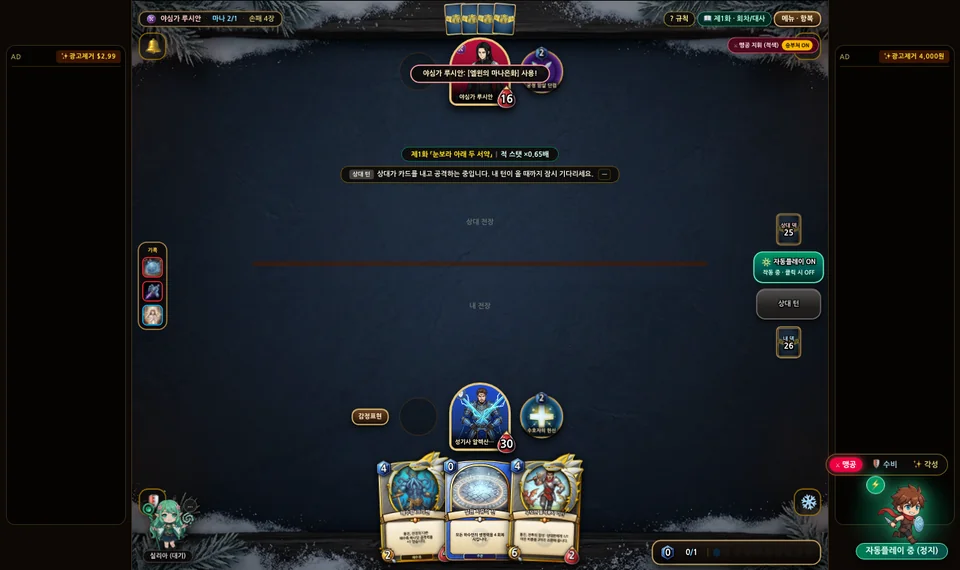
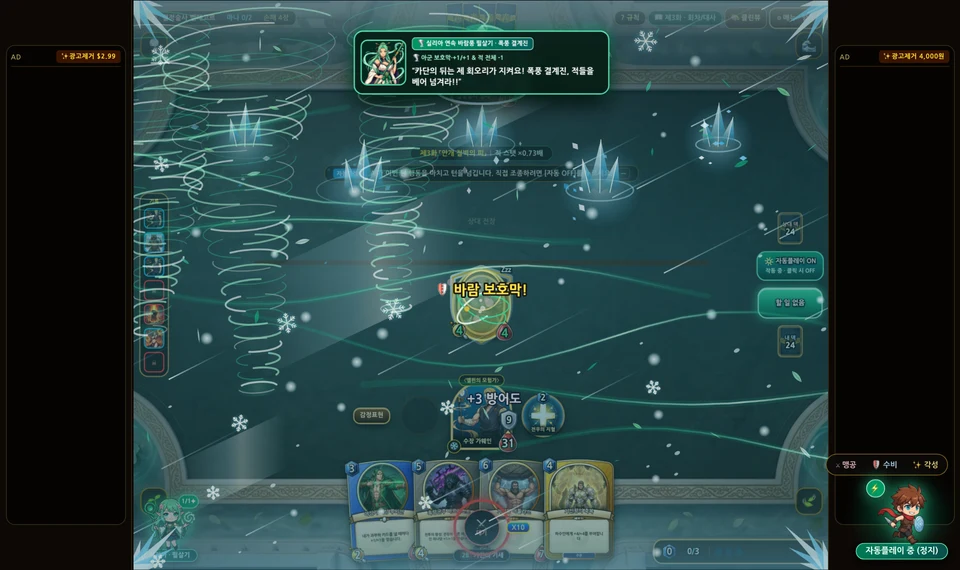
docs(guide): 게임 방법 STEP 4 자동플레이 [카단의 기세] 활용법 상세 안내 및 한·영 스크린샷 갱신

diff --git a/src/hearthstone/components/OnboardingGuideModal.tsx b/src/hearthstone/components/OnboardingGuideModal.tsx
@@ -91,18 +91,20 @@ export const HOW_TO_PLAY_SLIDES: GuideStepSlide[] = [
   },
   {
     step: 4,
-    shortLabelKo: '전술·리듬오토',
-    shortLabelEn: 'Tactic & Rhythm',
-    badgeKo: 'STEP 4 · 카단 전술 & BGM 리듬 오토(1.5x·2.0x)',
-    badgeEn: 'STEP 4 · KADAN COMMAND ORB & BGM RHYTHM AUTO',
-    titleKo: '카단 리듬 지휘 오브(1.5x·2.0x) & 실리아 필살기',
-    titleEn: 'Kadan Rhythm Command Orb (1.5x·2.0x) & Silia Ultimates',
+    shortLabelKo: '카단의 기세',
+    shortLabelEn: 'Kadan Spirit',
+    badgeKo: 'STEP 4 · 자동플레이 & 카단의 기세 (X10 연속 필살기)',
+    badgeEn: "STEP 4 · AUTO-PLAY & KADAN'S SPIRIT (X10 CHAIN ULTIMATE)",
+    titleKo: '자동플레이 중 [카단의 기세] 초록 링 탭 → X10 눈보라·바람풍 연속 필살기!',
+    titleEn: "Auto-Play [Kadan's Spirit]: Tap on GREEN → X10 Blizzard & Windstorm Chain!",
     descKo:
-      '자동플레이 시 우상단 [카단 리듬 지휘 오브]에서 공격·방어·각성 전술을 바꾸고, BGM 박자에 수축하는 황금 오카리나 링을 탭(또는 Space)하면 화음과 함께 1.5x·2.0x 공명(경쟁모드는 골드 피버)이 발동합니다!',
+      '자동플레이를 켜면 실리아와 카단 사이 하단 중앙에 BGM 맥박에 맞춰 수축하는 [카단의 기세] 링이 열립니다. 빨간색(대기)일 때는 기다렸다가 초록색(TAP!) 타이밍에 터치(또는 Space 키)하면 X1, X2… 기세 스택이 쌓이며, 10배수(X10·X20·X30…)마다 카단의 눈보라 광역 필살기와 실리아의 무작위 바람풍 필살기가 연속으로 작렬합니다!',
     descEn:
-      'During Auto-Play, switch Attack/Defense/3x stances on the Kadan Command Orb and tap the shrinking Golden Ocarina Beat Ring (or Space) for 1.5x·2.0x harmonic resonance (or Gold Fever in Ranked/Bogart)!',
-    tipKo: '편의 기능: 사운드 OFF 시에도 시각 메트로놈 파동으로 박자를 맞출 수 있으며, 10배수(X10·X20…)마다 카단 눈보라 & 실리아 바람풍 연속 필살기가 발동합니다.',
-    tipEn: 'Smart Assist: Works silently via Visual Metronome pulses when muted, firing Kadan Blizzard & Silia Windstorm chain ultimates every 10 stacks (X10·X20…).',
+      "When Auto-Play is ON, the [Kadan's Spirit] beat ring appears at bottom-center between Silia and Kadan. Hold on RED (WAIT) and tap on GREEN (TAP! or Spacebar) to build X1, X2… stacks—every 10 stacks (X10·X20·X30…) unleashes Kadan's Blizzard Ultimate followed immediately by Silia's random Windstorm Ultimate!",
+    tipKo:
+      '박자·전술 팁: 링 아래 [2B/4B] 버튼으로 2박(기본)·4박 주기를 전환할 수 있고, 우하단 [맹공·수비·각성]으로 카단의 자동 전술을 실시간 변경하며, 랭킹·도박장에서는 공정하게 피버 골드만 충전됩니다.',
+    tipEn:
+      'Beat & Stance Tip: Switch [2B/4B] cadence below the ring, change [Aggro · Ctrl · Awkn] AI stances at bottom-right, and earn fair bonus Fever Gold in Ranked/Bogart.',
     imageUrlKo: '/hs-assets/guide/guide_04_combat_ult.webp',
     imageUrlEn: '/hs-assets/guide/guide_en_04_combat_ult.webp',
   },
@@ -270,6 +272,48 @@ export const HowToPlayCarousel: React.FC<{
           <p className="mt-1.5 text-xs font-semibold leading-relaxed text-amber-100/90 sm:text-sm">
             {isKo ? slide.descKo : slide.descEn}
           </p>
+
+          {slide.step === 4 && (
+            <div
+              data-testid="howto-kadan-spirit-breakdown"
+              className="mt-2.5 grid grid-cols-1 gap-1.5 sm:grid-cols-3"
+            >
+              <div className="rounded-xl border border-emerald-400/45 bg-black/50 px-2.5 py-2">
+                <div className="text-[11px] font-black text-emerald-300">
+                  {tr('① 🟢 초록(TAP!) · 🔴 빨강(대기)', '① 🟢 GREEN (TAP!) · 🔴 RED (WAIT)')}
+                </div>
+                <div className="mt-0.5 text-[10.5px] leading-snug text-amber-100/85">
+                  {tr(
+                    '링이 초록색일 때 터치(또는 Space)! 빨간색에 누르면 엇박(MISS)으로 스택이 오르지 않습니다.',
+                    'Tap (or press Space) when the ring turns GREEN! Tapping on RED counts as a MISS.',
+                  )}
+                </div>
+              </div>
+              <div className="rounded-xl border border-sky-400/45 bg-black/50 px-2.5 py-2">
+                <div className="text-[11px] font-black text-sky-300">
+                  {tr('② 📈 X1 → X10 → X20 기세 누적', '② 📈 Stack X1 → X10 → X20 Spirit')}
+                </div>
+                <div className="mt-0.5 text-[10.5px] leading-snug text-amber-100/85">
+                  {tr(
+                    '2박마다 1스택씩 옆 배지(X1, X2…)에 누적되며, 스토리 매 턴 방어도·공격력 공명 보너스도 부여됩니다.',
+                    'Every 2-beat hit stacks X1, X2… on the side badge and grants turn Armor/Buff resonance in Story.',
+                  )}
+                </div>
+              </div>
+              <div className="rounded-xl border border-cyan-300/55 bg-sky-950/45 px-2.5 py-2">
+                <div className="text-[11px] font-black text-cyan-200">
+                  {tr('③ ❄🌪 10배수 합동 필살기 작렬', '③ ❄🌪 10x Dual Ultimate Combo')}
+                </div>
+                <div className="mt-0.5 text-[10.5px] leading-snug text-amber-100/85">
+                  {tr(
+                    'X10·X20·X30 달성 즉시 배수 비례 [카단 눈보라 필살기] + [실리아 무작위 바람풍 필살기]가 연속 발동합니다!',
+                    'Hitting X10·X20·X30 fires tier-scaled [Kadan Blizzard] + [Silia Random Windstorm] back-to-back!',
+                  )}
+                </div>
+              </div>
+            </div>
+          )}
+
           <div className="mt-2.5 rounded-xl border border-emerald-400/40 bg-emerald-950/60 px-3 py-2 text-[11px] font-bold text-emerald-100 sm:text-xs">
             💡 {isKo ? slide.tipKo : slide.tipEn}
           </div>
@@ -373,6 +417,13 @@ export const QuickRulesModal: React.FC<QuickRulesModalProps> = ({
         'In Story Mode, owning 3+ copies boosts a minion’s Attack & Health by 3x or more!',
       ),
     },
+    {
+      name: tr('🟢 카단의 기세 (X10 합동 필살기)', "🟢 Kadan's Spirit (X10 Combo Ult)"),
+      desc: tr(
+        '자동플레이 중 하단 중앙 링이 초록색(TAP!)일 때 누르면 X스택이 쌓이고, 10배수(X10·X20…)마다 카단 눈보라 + 실리아 바람풍 연속 필살기가 발동합니다!',
+        'During Auto-Play, tap the bottom-center ring on GREEN (TAP!) to stack X1, X2… Every 10 stacks (X10·X20…) fires Kadan Blizzard + Silia Windstorm!',
+      ),
+    },
   ];
 
   const handleClose = () => {
@@ -429,7 +480,7 @@ export const QuickRulesModal: React.FC<QuickRulesModalProps> = ({
             }}
             className="flex min-h-[44px] w-full items-center justify-between rounded-xl border border-[#c8a158]/50 bg-black/45 px-3.5 py-2 text-xs font-extrabold text-amber-200 transition hover:border-amber-300 sm:text-sm"
           >
-            <span>{tr('📖 자주 나오는 카드 능력(키워드) 6가지 보기', '📖 View 6 Core Card Keywords')}</span>
+            <span>{tr('📖 자주 나오는 카드 능력 & 핵심 시스템 7가지 보기', '📖 View 7 Core Card Keywords & Systems')}</span>
             <span>{showKeywords ? tr('접기 ▲', 'Hide ▲') : tr('펼치기 ▼', 'Show ▼')}</span>
           </button>
 

diff --git a/src/hearthstone/services/localLlmAssistant.ts b/src/hearthstone/services/localLlmAssistant.ts
@@ -127,6 +127,7 @@ function buildSystemPrompt(opts: {
       '규칙 요약: 총 382장 카드(9종족 × 25장 + 중립 157장), 40화 풀보이스 스토리모드, 1배수 공정 랭킹전, 9종족 AI대전.',
       '핵심 성장: 스토리모드 전용 [3장=3배 각성] 법칙 (동일 카드 3장 보유 시 공격력/생명력 3배, N환생 시 추가 비례 상승). 팩 천장: 10팩마다 24K 전설 100% 확정.',
       '동료 스킬: 좌측 하단 요정 실리아 3등신 필살기(바람 결계 보호막/스탯 버프, 녹풍 참격 광역 피해, 생명의 미풍 회복/방어도 — 환생할수록 강화).',
+      '자동플레이 [카단의 기세]: 자동플레이 ON 시 실리아와 카단 사이 하단 중앙에 BGM 맥박과 동기화된 [카단의 기세] 수축 링이 표시됨. 빨간색(대기)일 때는 기다리고 초록색(TAP!)일 때 터치(또는 Space 키)하면 2박마다 X1, X2… 누적 스택이 쌓임. 10배수(X10, X20, X30…) 달성 즉시 카단의 눈보라 광역 필살기가 발동하고 직후 실리아의 무작위 바람풍 필살기가 연속 발동함 (경쟁 모드는 피버 골드 충전).',
       '유저의 질문에 친절하고 간결하게 2~4문장 이내의 한국어로 답하세요.',
       `현재 상태: 화면=${screen}, 골드=${profile.gold}G, 가루=${profile.arcaneDust}, 보유팩=${profile.packs}, 여정=${profile.journeyEpisode}화(환생 ${profile.journeyReincarnation}회), 카단전술=${tacticalStance}. ${battleSummary}`,
     ].join('\n');
@@ -135,7 +136,7 @@ function buildSystemPrompt(opts: {
   return [
     'You are Paladin Kadan, the helpful on-device AI guide inside the web card battle game SNSHero.',
     'Game facts: 382 collectible cards (9 factions x 25 + 157 neutral), 40-episode full-voice Story Mode, fair 1x Ranked Mode, 9-Faction AI Practice.',
-    'Core systems: Story Mode [3 Copies = 3x Power] awakening rule (NG+ Reincarnation scales stats further), Guaranteed Legendary within 10 card packs, bottom-left Chibi Silia Ultimate Skills (Wind Barrier, Gale Slash, Vital Breeze scaling with Reincarnation).',
+    'Core systems: Story Mode [3 Copies = 3x Power] awakening rule (NG+ Reincarnation scales stats further), Guaranteed Legendary within 10 card packs, bottom-left Chibi Silia Ultimate Skills (Wind Barrier, Gale Slash, Vital Breeze scaling with Reincarnation), and Auto-Play [Kadan\'s Spirit] beat ring at bottom-center (wait on RED, tap on GREEN or Spacebar to stack X1, X2…; every 10 stacks X10/X20 triggers Kadan\'s Blizzard Ultimate followed immediately by Silia\'s random Windstorm Ultimate).',
     'Answer concisely in 2-4 friendly English sentences.',
     `Live context: Screen=${screen}, Gold=${profile.gold}G, Dust=${profile.arcaneDust}, Packs=${profile.packs}, Story=EP.${profile.journeyEpisode}(NG+${profile.journeyReincarnation}), Stance=${tacticalStance}. ${battleSummary}`,
   ].join('\n');
@@ -152,6 +153,12 @@ function answerWithBuiltInSnsHeroKnowledge(
 ): string {
   const { isKo, profile, battleSnapshot } = opts;
   const q = question.toLowerCase();
+
+  if (/기세|정박|링|스택|x10|x20|초록|빨강|눈보라|리듬|박자|spirit|rhythm|ring|stack|blizzard|green/i.test(q)) {
+    return isKo
+      ? `자동플레이를 켜면 실리아와 저 사이 하단 중앙에 [카단의 기세] 수축 링이 열립니다! 🔴 빨간색(대기)일 때는 참았다가 🟢 초록색(TAP!)일 때 터치(또는 Space 키)하면 X1, X2… 스택이 쌓이고, 10배수(X10·X20·X30…)마다 제 눈보라 광역 필살기와 실리아의 무작위 바람풍 필살기가 연속으로 작렬합니다! ([2B/4B] 버튼으로 박자 주기도 조절 가능해요.)`
+      : `During Auto-Play, the [Kadan's Spirit] beat ring appears at bottom-center between Silia and me! Hold on RED (WAIT) and tap on GREEN (TAP! or Spacebar) to build X1, X2… stacks—every 10 stacks (X10·X20·X30…) fires my Blizzard Ultimate followed right away by Silia's random Windstorm Ultimate!`;
+  }
 
   if (/실리아|필살기|바람|녹풍|결계|미풍|silia|ult|barrier|gale|breeze/i.test(q)) {
     return isKo

diff --git a/src/hearthstone/components/KadanChatbotWidget.tsx b/src/hearthstone/components/KadanChatbotWidget.tsx
@@ -423,6 +423,18 @@ export const KadanChatbotWidget: React.FC<KadanChatbotWidgetProps> = ({
       return [
         autoPlayOption,
         {
+          id: 'battle_kadan_spirit_guide',
+          icon: '🟢',
+          label: tr('자동플레이 [카단의 기세] 활용법 알려줘', "How do I use [Kadan's Spirit] in Auto-Play?"),
+          highlight: 'tip',
+          onSelect: () => {
+            speak(
+              '자동플레이를 켜면 실리아와 저 사이 하단 중앙에 [카단의 기세] 링이 나타나요! 빨간색(대기)일 때는 기다렸다가 초록색(TAP!)일 때 누르면(또는 Space 키) X1, X2… 기세 스택이 쌓이고, 10배수(X10·X20…)마다 제 눈보라 필살기와 실리아의 바람풍 필살기가 연속으로 작렬합니다!',
+              "Turn on Auto-Play to open the [Kadan's Spirit] ring between Silia and me! Wait on RED, tap on GREEN (or Spacebar) to stack X1, X2… Every 10 stacks (X10·X20…) unleashes my Blizzard Ultimate + Silia's Windstorm Ultimate back-to-back!",
+            );
+          },
+        },
+        {
           id: 'battle_recommend_play',
           icon: '🃏',
           label: tr('지금 낼 수 있는 추천 카드 알려줘', 'Which card should I play right now?'),
@@ -748,12 +760,12 @@ export const KadanChatbotWidget: React.FC<KadanChatbotWidgetProps> = ({
       {
         id: 'hub_card_basics',
         icon: '💡',
-        label: tr('초보자 필수 카드 도움말 듣기', 'Beginner Card Battle Tips'),
+        label: tr('초보자 필수 카드 & [카단의 기세] 도움말', "Beginner Battle & [Kadan's Spirit] Tips"),
         highlight: 'tip',
         onSelect: () =>
           speak(
-            '눈히어로의 382장 카드는 [하수인·주문·무기]로 나뉘어요! 매 턴 늘어나는 파란 마나 수정 범위 안에서 카드를 내어 적 영웅의 생명력을 0으로 만들면 승리합니다!',
-            'All 382 cards are Minions, Spells, or Weapons! Spend Mana crystals each turn to reduce the enemy Hero to 0 Health!',
+            '매 턴 마나로 [하수인·주문·무기]를 내어 적 영웅 체력을 0으로 만들면 승리해요! 자동플레이 중에는 하단 중앙 [카단의 기세] 링이 초록색(TAP!)일 때 눌러 X10·X20 스택을 채우면 제 눈보라 필살기와 실리아의 바람풍 필살기가 연속 발동합니다!',
+            "Spend Mana on Minions, Spells & Weapons to drop the enemy Hero to 0 HP! During Auto-Play, tap the bottom-center [Kadan's Spirit] ring on GREEN (TAP!)—every 10 stacks (X10·X20) triggers my Blizzard + Silia's Windstorm Ultimates!",
           ),
       },
       {

diff --git a/src/promo/PromoApp.tsx b/src/promo/PromoApp.tsx
@@ -775,10 +775,10 @@ export const PromoApp: React.FC = () => {
                 },
                 {
                   icon: <Swords className="h-6 w-6 text-emerald-300" />,
-                  title: tr('카단의 기세 & 필살기', "Kadan's Spirit & Ultimate"),
+                  title: tr('카단의 기세 & 합동 필살기', "Kadan's Spirit & Dual Ultimate"),
                   desc: tr(
-                    '배경음악 맥박(초록 링)을 탭해 10배수 X스택을 쌓으면 카단의 눈히어로 필살기가 작렬합니다.',
-                    'Tap the green beat ring to stack 10x Spirit and unleash Kadan’s SNSHero Ultimate.',
+                    '자동플레이 중 하단 중앙 초록 링(TAP!)을 눌러 X10·X20 스택을 쌓으면 카단 눈보라 + 실리아 바람풍 연속 필살기가 작렬합니다.',
+                    'During Auto-Play, tap the bottom-center green beat ring (TAP!) to stack X10·X20 and unleash Kadan Blizzard + Silia Windstorm!',
                   ),
                 },
                 {

diff --git a/WORK_LOGS.md b/WORK_LOGS.md
@@ -2,6 +2,18 @@
 
 이 문서는 매시 정각 주기 스케줄러 및 수동 실행 시 스프레드시트 작업 동기화, 코드 수정 및 검증, 구글 폼 보고 내역을 기록하는 영구 로그입니다.
 
+## [2026-11-18 11:22 KST] [게임 방법(`How to Play`) · 전투 규칙 · 카단 도우미 내 자동플레이 『카단의 기세』 활용법 및 한·영 최신 스크린샷 반영]
+- **요청 및 개선 내역**:
+  1. **게임 방법 6단계 가이드 STEP 4 『카단의 기세』 전용 가이드 및 3단계 시각 카드 추가 (`src/hearthstone/components/OnboardingGuideModal.tsx`, `src/promo/PromoApp.tsx`)**:
+     - 상단 4번 탭 명칭을 **`4. 카단의 기세` (`4. Kadan Spirit`)** 으로 명확히 표시하고, 자동플레이 시 하단 중앙 수축 링 활용법(**① 🔴 빨강(대기) · 🟢 초록(TAP!) 탭 타이밍** → **② `X1` → `X10` → `X20` 누적 스택** → **③ 10배수 달성 즉시 카단 눈보라 + 실리아 무작위 바람풍 연속 합동 필살기**)을 3단계 요약 카드(`howto-kadan-spirit-breakdown`)와 본문·팁에 한·영 모두 상세히 수록.
+     - 하단 핵심 키워드 아코디언(`QuickRulesModal`)에도 **`🟢 카단의 기세 (X10 합동 필살기)`** 항목을 추가해 로비 `[게임 방법]`, 전장 `[? 규칙]`, 프로모션 `#how-to-play` 전 화면에서 즉시 확인 가능하도록 구성.
+  2. **한국어·영문 전용 최신 인게임 가이드 스크린샷 재캡처 반영 (`public/hs-assets/guide/guide_04_combat_ult.webp`, `public/hs-assets/guide/guide_en_04_combat_ult.webp`)**:
+     - 기존 구버전 스크린샷을 대체하여 하단 중앙 `카단의 기세` 링·`X10` 스택 배지·눈보라 및 바람풍 연속 필살기가 실제 작동 중인 한국어/영문 화면(`960×570` WebP)으로 각각 최신화.
+  3. **카단 전장/로비 챗봇 및 온디바이스 AI 문답 지식 추가 (`src/hearthstone/components/KadanChatbotWidget.tsx`, `src/hearthstone/services/localLlmAssistant.ts`)**:
+     - 전장 카단 메뉴에 **`🟢 자동플레이 [카단의 기세] 활용법 알려줘`** 원탭 도움말 버튼을 추가하고, 로컬 AI 질의응답에 `카단의 기세`·`초록 링`·`X10 스택` 규칙을 등록.
+- **빌드 & E2E 검증**: `npx tsc --noEmit && npm run build` 0 에러 통과, Playwright 한·영(`ko` `360×844`, `en` `390×844` / `1280×800`) `[게임 방법]` 모달·프로모션 `#how-to-play`·언어별 스크린샷 분기 검증 통과.
+- **버전 관리 & 보고**: 로컬 `git commit` 완료(`git push` 미실행 · 수동 푸시 대기) 및 구글 폼 완료 보고 제출.
+
 ## [2026-11-18 11:14 KST] [필살기 내 축포형 리본·폭죽 별 파티클 전량 제거 및 카단 『눈보라』·실리아 『바람풍』 본격 원소 폭풍 VFX 전면 재구현]
 - **요청 및 개선 내역**:
   1. **축포처럼 보이던 구석 발사 리본(`SWEEP`/`STREAM`) 및 별·파편 폭죽(`STAR` 폭발) 100% 제거 (`src/hearthstone/vfx/BoardVfxCanvas.tsx`)**:
